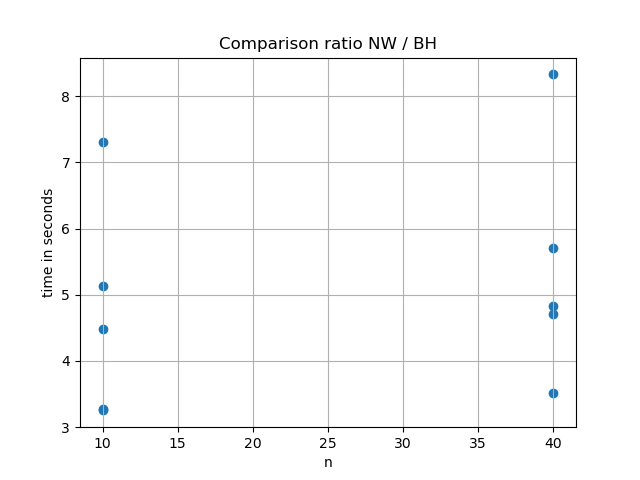
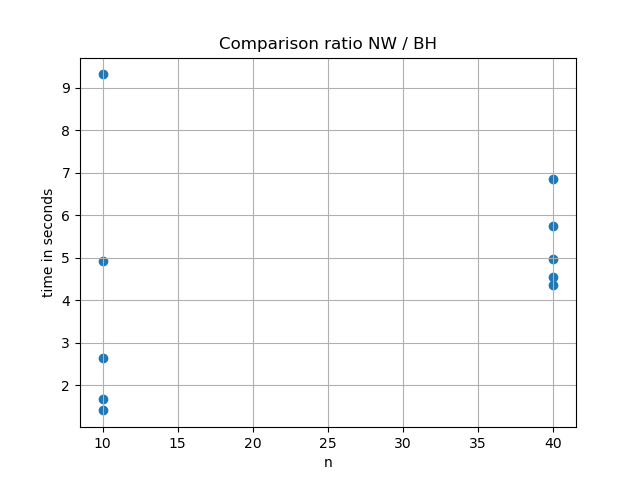
save my changes

diff --git a/complexity.py b/complexity.py
@@ -159,11 +159,11 @@ def main():
     Path("plots").mkdir(exist_ok=True)
 
     # Start small. Later you can try [10, 40, 100, 400]
-    sizes = [10, 40]
+    sizes = [10, 40, 10**2, 4*10**2, 10**3, 4*10**3, 10**4]
 
     # For the final project, the PDF says 100.
     # For testing, use 3 or 5 first.
-    repetitions = 5
+    repetitions = 100
 
     results = []
 
